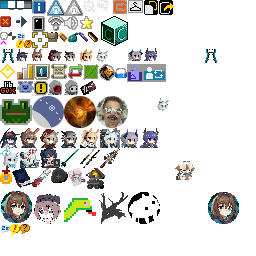
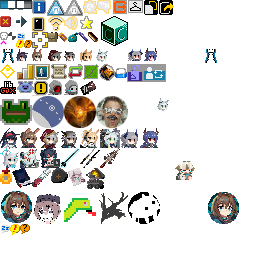
짜잘한거 완화

Changed region(s): [[0.125, 0.0625, 0.3125, 0.125], [0.3125, 0.0, 0.4375, 0.0625]]

diff --git a/core/src/main/java/com/shatteredpixel/shatteredpixeldungeon/items/NewGameItem/Certificate.java b/core/src/main/java/com/shatteredpixel/shatteredpixeldungeon/items/NewGameItem/Certificate.java
@@ -21,10 +21,10 @@ public class Certificate extends Item {
 
     public Certificate( int value ) {
         this.quantity = value;
-        if (Challenges.activeChallenges() > 7) this.quantity += 20;
-        else if (Challenges.activeChallenges() > 5) this.quantity += 15;
-        else if (Challenges.activeChallenges() > 2) this.quantity += 10;
-        else if (Challenges.activeChallenges() > 0) this.quantity += 5;
+        if (Challenges.activeChallenges() > 7) this.quantity += 50;
+        else if (Challenges.activeChallenges() > 5) this.quantity += 40;
+        else if (Challenges.activeChallenges() > 2) this.quantity += 20;
+        else if (Challenges.activeChallenges() > 0) this.quantity += 10;
 
         if (Dungeon.eazymode == 1) this.quantity = 0;
     }

diff --git a/core/src/main/java/com/shatteredpixel/shatteredpixeldungeon/actors/mobs/npcs/Closure.java b/core/src/main/java/com/shatteredpixel/shatteredpixeldungeon/actors/mobs/npcs/Closure.java
@@ -190,7 +190,7 @@ public class Closure extends NPC {
                                     }});}
                             break;
                         case 8: // 머드락 스킨
-                            if (Badges.isUnlocked(Badges.Badge.BOSS_SLAIN_3_ALL_SUBCLASSES)) {
+                            if (Badges.isUnlocked(Badges.Badge.CHAMPION_1)) {
                                 if(!Badges.isUnlocked(Badges.Badge.SKIN_MUDROCK)) {Badges.validateRockskin();}
                                 sprite.showStatus( CharSprite.POSITIVE, Messages.get(this, "hi"));
                                 break;

diff --git a/core/src/main/java/com/shatteredpixel/shatteredpixeldungeon/ui/Icons.java b/core/src/main/java/com/shatteredpixel/shatteredpixeldungeon/ui/Icons.java
@@ -153,10 +153,10 @@ public enum Icons {
 			icon.frame( icon.texture.uvRect( 65, 0, 83, 16 ) );
 			break;
 		case PREFS:
-			icon.frame( icon.texture.uvRect( 83, 0, 95, 12 ) );
+			icon.frame( icon.texture.uvRect( 83, 0, 97, 14 ) );
 			break;
 		case LANGS:
-			icon.frame( icon.texture.uvRect( 97, 0, 109, 12 ) );
+			icon.frame( icon.texture.uvRect( 97, 0, 111, 14 ) );
 			break;
 		case EXIT:
 			icon.frame( icon.texture.uvRect( 113, 0, 127, 14 ) );

diff --git a/core/src/main/java/com/shatteredpixel/shatteredpixeldungeon/actors/mobs/Goo.java b/core/src/main/java/com/shatteredpixel/shatteredpixeldungeon/actors/mobs/Goo.java
@@ -271,7 +271,7 @@ public class Goo extends Mob {
 		
 		GameScene.bossSlain();
 		Dungeon.level.drop( new SkeletonKey( Dungeon.depth ), pos ).sprite.drop();
-		Dungeon.level.drop(new Certificate(5), pos).sprite.drop(pos);
+		Dungeon.level.drop(new Certificate(10), pos).sprite.drop(pos);
 		
 		//60% chance of 2 blobs, 30% chance of 3, 10% chance for 4. Average of 2.5
 		int blobs = Random.chances(new float[]{0, 0, 6, 3, 1});

diff --git a/core/src/main/java/com/shatteredpixel/shatteredpixeldungeon/actors/mobs/NewTengu.java b/core/src/main/java/com/shatteredpixel/shatteredpixeldungeon/actors/mobs/NewTengu.java
@@ -237,7 +237,7 @@ public class NewTengu extends Mob {
             }
         }
         Dungeon.level.drop(new Nullshield(), pos).sprite.drop(pos);
-        Dungeon.level.drop(new Certificate(10), pos).sprite.drop(pos);
+        Dungeon.level.drop(new Certificate(20), pos).sprite.drop(pos);
 
         if (Dungeon.hero.CharSkin == Dungeon.hero.SSR) Dungeon.level.drop(new Pombbay(), pos).sprite.drop(pos);
 

diff --git a/core/src/main/java/com/shatteredpixel/shatteredpixeldungeon/actors/mobs/Yog.java b/core/src/main/java/com/shatteredpixel/shatteredpixeldungeon/actors/mobs/Yog.java
@@ -168,7 +168,7 @@ public class Yog extends Mob {
 		
 		GameScene.bossSlain();
 		Dungeon.level.drop( new SkeletonKey( Dungeon.depth ), pos ).sprite.drop();
-		Dungeon.level.drop(new Certificate(25), pos).sprite.drop(pos);
+		Dungeon.level.drop(new Certificate(50), pos).sprite.drop(pos);
 		super.die( cause );
 		
 		yell( Messages.get(this, "defeated") );

diff --git a/core/src/main/java/com/shatteredpixel/shatteredpixeldungeon/actors/mobs/NewDM300.java b/core/src/main/java/com/shatteredpixel/shatteredpixeldungeon/actors/mobs/NewDM300.java
@@ -599,7 +599,7 @@ public class NewDM300 extends Mob {
         GameScene.bossSlain();
         Dungeon.level.unseal();
 
-        Dungeon.level.drop(new Certificate(15), pos).sprite.drop(pos);
+        Dungeon.level.drop(new Certificate(30), pos).sprite.drop(pos);
 
         for (int i = 0; i < 2; i++) {
             int ofs;

diff --git a/core/src/main/java/com/shatteredpixel/shatteredpixeldungeon/actors/mobs/SiestaBoss.java b/core/src/main/java/com/shatteredpixel/shatteredpixeldungeon/actors/mobs/SiestaBoss.java
@@ -156,7 +156,7 @@ public class SiestaBoss extends Mob {
 
         yell(Messages.get(this, "defeated"));
 
-        Dungeon.level.drop(new Certificate(30), pos).sprite.drop(pos);
+        Dungeon.level.drop(new Certificate(40), pos).sprite.drop(pos);
 
         GameScene.bossSlain();
         Dungeon.level.unseal();

diff --git a/core/src/main/java/com/shatteredpixel/shatteredpixeldungeon/actors/mobs/DwarfKing.java b/core/src/main/java/com/shatteredpixel/shatteredpixeldungeon/actors/mobs/DwarfKing.java
@@ -461,7 +461,7 @@ public class DwarfKing extends Mob {
 			GLog.h(Messages.get(Hero.class, "eazymode"));
 		} else {
 
-			Dungeon.level.drop(new Certificate(20), pos).sprite.drop(pos);
+			Dungeon.level.drop(new Certificate(40), pos).sprite.drop(pos);
 
 			int ofs = PathFinder.NEIGHBOURS8[Random.Int(8)];
 			do {

diff --git a/core/src/main/java/com/shatteredpixel/shatteredpixeldungeon/actors/mobs/Tomimi.java b/core/src/main/java/com/shatteredpixel/shatteredpixeldungeon/actors/mobs/Tomimi.java
@@ -293,7 +293,7 @@ public class Tomimi extends Mob {
             m.die(null);
         }
 
-        Dungeon.level.drop(new Certificate(30), pos).sprite.drop(pos);
+        Dungeon.level.drop(new Certificate(40), pos).sprite.drop(pos);
 
         GameScene.bossSlain();
         Dungeon.level.unseal();

diff --git a/core/src/main/java/com/shatteredpixel/shatteredpixeldungeon/items/weapon/melee/FlameKatana.java b/core/src/main/java/com/shatteredpixel/shatteredpixeldungeon/items/weapon/melee/FlameKatana.java
@@ -28,7 +28,7 @@ public class FlameKatana extends MeleeWeapon {
     public void GetKillPoint() {
         killpoint++;
 
-        if (killpoint == 125) {
+        if (killpoint == 85) {
             int lvl = this.level();
 
             BladeDemon n = new BladeDemon();
